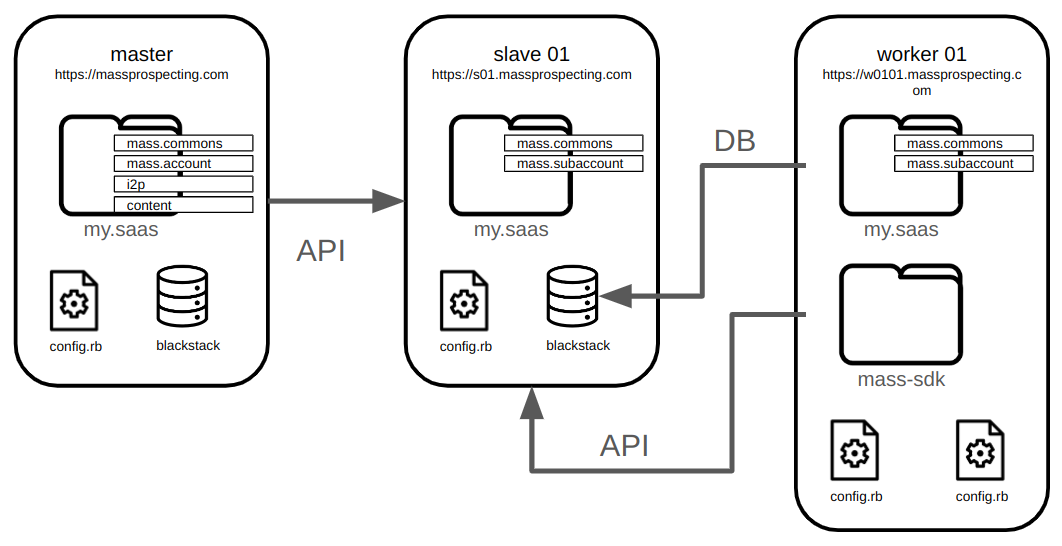
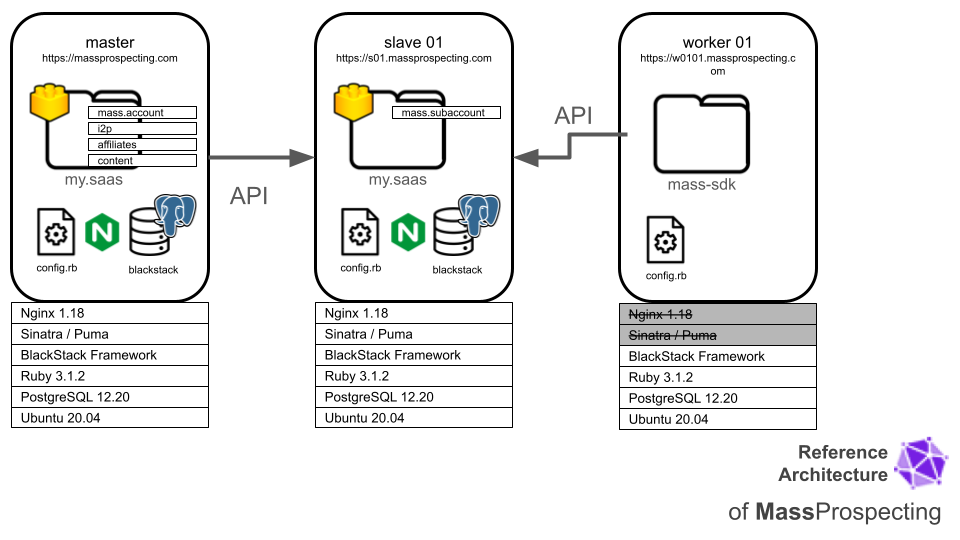
docu

Changed region(s): [[0.0, 0.0, 1.0, 0.9778], [0.3125, 0.0296, 0.3438, 0.0889]]

diff --git a/internals/01-architecture.md b/internals/01-architecture.md
@@ -14,19 +14,18 @@ In this section we review the architecture of MassProspecting, and how to instal
 **Master Node**
 
 The **master node** is where users signup and login (among other use cases).
-There is one, and only one, **master node** running.
 
 There is one, and only one, **master node** running.
 
-The **master** is one server running a [my.saas](https://github.com/leandrosardi/my.saas) platform with the following [extensions](https://github.com/leandrosardi/my.saas/tree/1.6.8?tab=readme-ov-file#4-extensions):
+The **master** is one server running a [my.saas](https://github.com/leandrosardi/my.saas) platform with the following [my.saas extensions](https://github.com/leandrosardi/my.saas/tree/1.6.8?tab=readme-ov-file#4-extensions):
 
-- [mass.commons](https://github.com/massprospecting/mass.commons)
-- [mass.account](https://github.com/massprospecting/mass.account)
-- [i2p](https://github.com/leandrosardi/i2p)
-- [content](https://github.com/leandrosardi/content)
-- [affiliates](https://github.com/leandrosardi/affiliates)
-- [monitoring](https://github.com/leandrosardi/monitoring)
-- [dropbox-token-helper](https://github.com/leandrosardi/dropbox-token-helper)
+- [mass.commons](https://github.com/massprospecting/mass.commons) _(private access)_,
+- [mass.account](https://github.com/massprospecting/mass.account) _(private access)_,
+- [i2p](https://github.com/leandrosardi/i2p),
+- [content](https://github.com/leandrosardi/content),
+- [monitoring](https://github.com/leandrosardi/monitoring),
+and
+- [dropbox-token-helper](https://github.com/leandrosardi/dropbox-token-helper).
 
 The my.saas platform running into the master has its own `config.rb` file, and its own PostgreSQL database running locally.
 
@@ -34,7 +33,7 @@ The master node:
 
 - hosts all the user accounts of the platform,
 - publishes the marketplace of profiles,
-- manage the sub-accounts hosted in **salve servers**,
+- manage the sub-accounts hosted in **salve servers** (read about slave servers below),
 - manage invoicing and payments processing; and
 - manage all security use cases like login, logout, password reset and password recovery.
 
@@ -52,18 +51,16 @@ A sub-account is used for:
 
 - costs control, creating one sub-account for each sector in an organization.
 
-Also, sub-accounts allows to create custom domains the brand of the user, and grant access to the user's clients too.
+Also, sub-accounts allow to create custom domains the brand of the user, and grant access to the user's clients too.
 
-The **slaves** run a [my.saas](https://github.com/leandrosardi/my.saas) platform with the following [extensions](https://github.com/leandrosardi/my.saas/tree/1.6.8?tab=readme-ov-file#4-extensions):
+The **slaves** run a [my.saas](https://github.com/leandrosardi/my.saas) platform with the following [my.saas extensions](https://github.com/leandrosardi/my.saas/tree/1.6.8?tab=readme-ov-file#4-extensions):
 
 - [mass.commons](https://github.com/massprospecting/mass.commons)
 - [mass.subaccount](https://github.com/massprospecting/mass.subaccount)
 
-The my.saas platform running into the master has its own `config.rb` file, and its own PostgreSQL database running locally.
+The my.saas platform running into a slave has its own `config.rb` file, and its own PostgreSQL database running locally.
 
 The communication between the **master** and the **slaves** is is via API only.
-
-One **slave node** may have one or more **worker nodes**.
 
 **Worker Nodes**
 
@@ -94,6 +91,10 @@ As an additional note, that instance of mass.slave shouldn't be running in a wor
 | nginx                                 | Nginx is used as a reverse proxy, listining port 443 (https) and redirecting to port 3000 (http). |
 | app.rb port=3000                      | It is a [Sinatra webserver](https://sinatrarb.com/), serving the webpages of the platofrm.        |
 | extensions/mass.account/p/allocate.rb | This process find a slave node with available slots, and signup a sub-account there.              |
+| ipn.rb        | Process belonging to the [my.saas i2p extension](https://github.com/leandrosardi/i2p), for processing PayPal transactions.                                    |
+| expire.rb     | Process belonging to the [my.saas i2p extension](https://github.com/leandrosardi/i2p), for removing credits in the balance of users who are no longer subscribed. |
+| baddebt.rb    | Process belonging to the [my.saas i2p extension](https://github.com/leandrosardi/i2p), for canceling subscriptions that are failing to be charged. More information [here](https://github.com/ConnectionSphere-DEPRECATED/cs-issues/issues/69). |
+| movement.rb   | Process belonging to the [my.saas i2p extension](https://github.com/leandrosardi/i2p), for updating a snapshot table with the net balance of the accounts.     |
 
 
 **Slave Nodes**

diff --git a/README.md b/README.md
@@ -2,7 +2,7 @@
 
 # Done for You, Multi-Channel Outreach System
 
-With [**MassProspecting**](https://massprospecting.com) it is very simple to outreach campaigns on **LinkedIn**, **Facebook** and **Email**.
+With [**MassProspecting**](https://massprospecting.com) it is very simple to build outreach campaigns on **LinkedIn**, **Facebook** and **Email**.
 
 **Example:**
 
